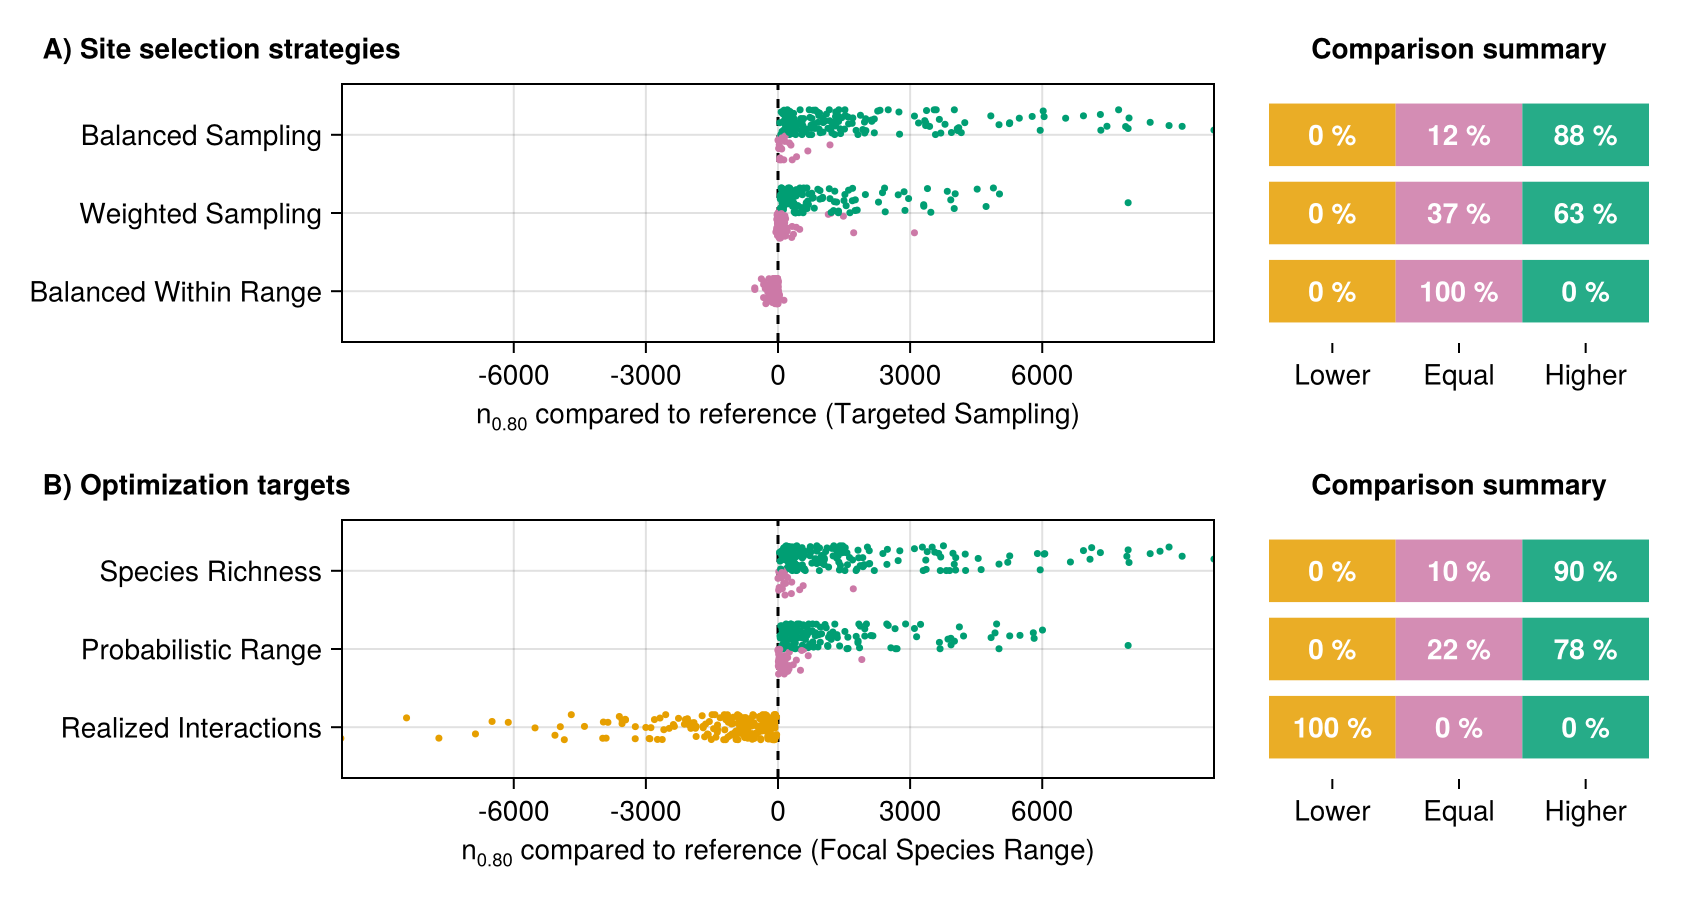
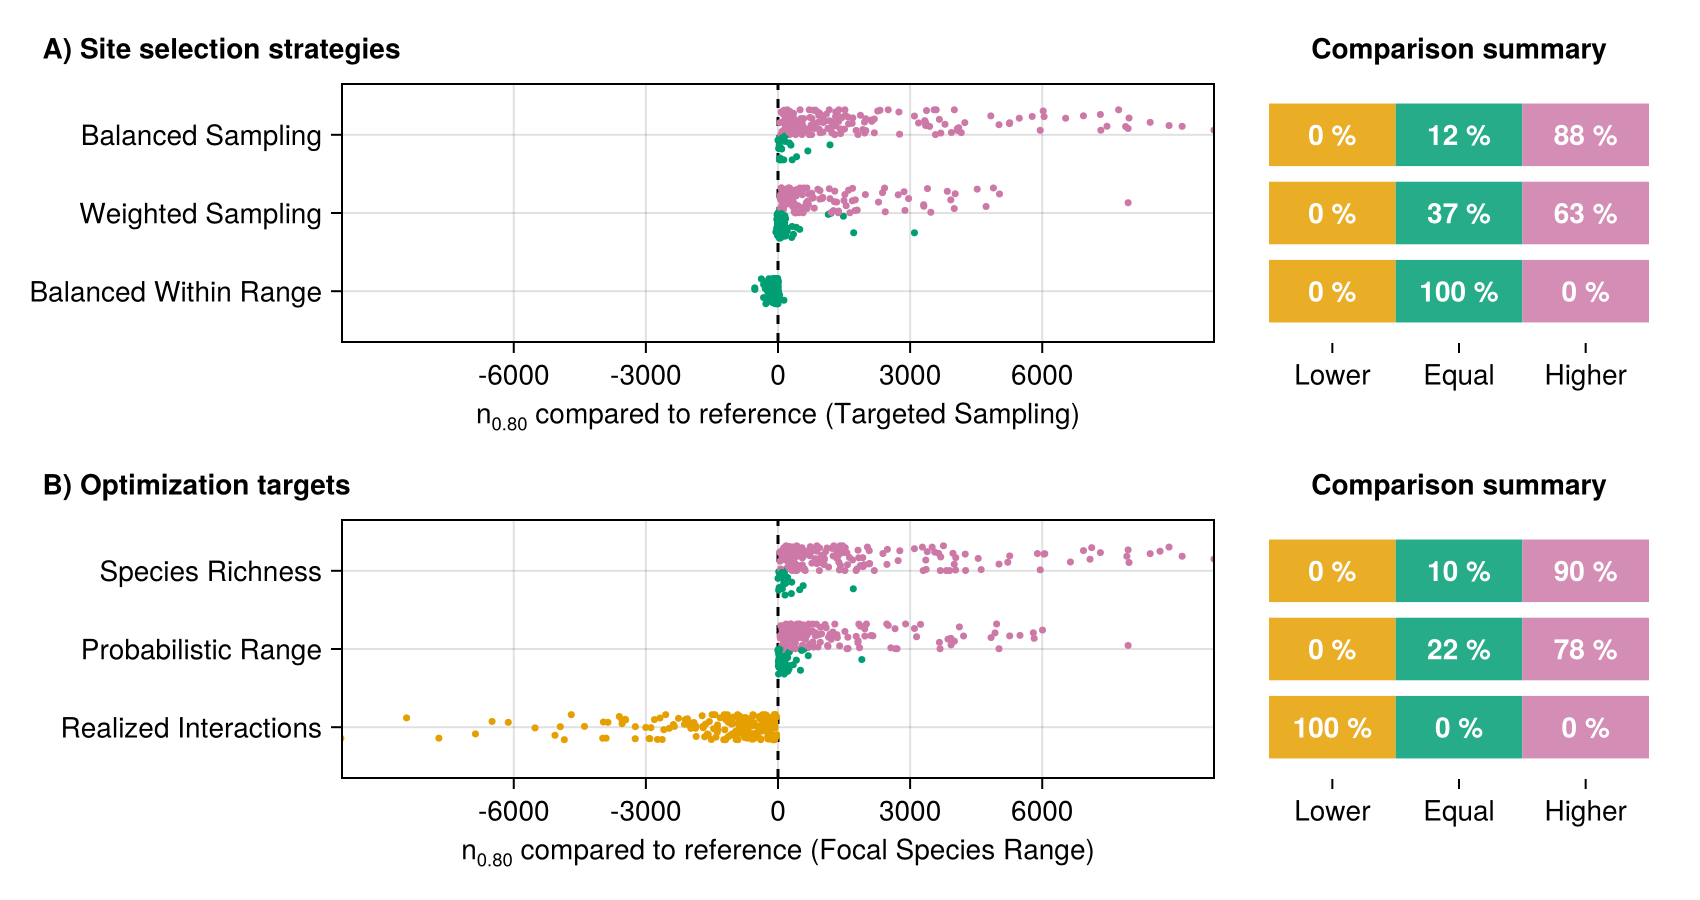
✍ response to reviewer 1

diff --git a/response.md b/response.md
@@ -9,6 +9,8 @@
 
 - Thank the editor
 
+--------------------------------------------------------------------------------
+
 ## Reviewer 1
 
 > This is an interesting manuscript that addresses the challenge of sampling
@@ -28,27 +30,36 @@
 
 - Thank the reviewer
 
-> 
->
-> --------------------------------------------------------------------------------
->
 > lines 420 - 424: Is this paragraph intended to explain Figure 3 BON Examples?
 > I couldn't find the mentioned summary in the text; this section should be
 > modified for clarity. Also the captions of figure 3 and 4 should mention that
 > they are showing examples.
 
-- Yes, explaining Figures 3-4.
-- Summary of results is Figure 5
+Yes, this paragraph refers to the showcased example in Figures 3 and 4,
+representative of the most common results across all independent landscape
+configurations. We clarified this by specifically mentioning Figures 3 and 4 in
+this paragraph. The summary we referred to is Figure 5, which directly presents
+across the 200 independent configurations. We now mention Figure 5 in the
+paragraph as well. We added a mention in the captions to clarify that Figures 3
+and 4 are showing examples, as suggested.
 
 > Figure 5 caption: The caption is difficult to follow, particularly the
 > sentence: "The comparison value is based on the number of sites required to
 > document 80% of the focal species' interactions (n_0.80), described in
 > Equation 2." .It is unclear whether this statement refers to the x-axis or to
 > another component of the figure. The comparison metric should be explained
-> more explicitly.\
+> more explicitly.
 
-- Explain n0.80 first
-- Then mention x-axis is the difference of n0.80 values
+The statement and "comparison value" indeed refer to the x-axis. We agree this
+was unclear, especially given that x-axis value is the *difference* between two
+$n_{0.80}$ values for the options being compared. We changed the sentence to
+explicitly mention the comparison: "*The comparison value (x-axis) is the
+difference between the* $n_{0.80}$ *(number of sites required to document 80% of
+the focal species' interactions, see Equation 2) for a given strategy or target
+and the* $n_{0.80}$ *of its reference.*" We believe that further explaining the
+measure is not necessary, as the $n_{0.80}$ value is already described in the
+Methods and Equation 2, and would make the caption even more difficult to
+follow.
 
 > In addition, the interpretation of the comparison summary is confusing. For
 > example, the category *"Balanced within range"* appears to be lower than the
@@ -65,23 +76,73 @@
 > outcomes relative to the reference. At minimum, the caption should explain
 > more clearly why some scenarios are represented by two bars.
 
-- Reference is centred on 0, indicate exact same n0.80
-- Equal values have overlapping confidence intervals, regardless of the sign
-- Lower values are negative, beyond the confidence intervals, indicate a more
-  efficient sampling
-- Higher are opposite
-- Confidence intervals vary per simulation (variance), hence we cannot delimit
-  with single bars
-- Scenarios represented by two bars/marker sets to highlight only potential
-  results
+We apologize for the confusion, which resulted in part from the lack of clarity
+over the difference measure mentioned in the previous point. To better explain,
+we need to distinguish three elements: the $n_{0.80}$ value, the comparison
+value (position on the x-axis) and the overlap of the confidence intervals (the
+marker colour and associated category). First, the $n_{0.80}$ measures the
+number of sites required to sample 80% of the interactions. It may go beyond the
+number of sites evaluated in our simulations (1-500) because it is derived from
+an accumulation curve fitted to the simulation results (described in details in
+the Methods, section *Step 3: Defining a comparable measure for sampling
+efficiency*). Next, a difference value of 0 (x-axis on Figure 5) indicates that
+the option under comparison (e.g. Balanced Within Range) had the exact same
+$n_{0.80}$ as the reference. Positive values indicate that the $n_{0.80}$ was
+higher while negative values indicate it was lower. However, the order of
+magnitude of the difference is specific to each independent simulation—the
+$n_{0.80}$ values compared may be 500 and 600 in one simulation but 3000 and
+4000 in another—thus, we cannot represent a single bar or "regions" for the
+categories. Therefore, we use the confidence intervals of the
+$n_{0.80}$(described in the Methods) to classify the results in the three
+categories : Equal (overlapping intervals between the compared option and the
+reference), Lower and Higher (non overlapping intervals).
+
+To address this concisely, we updated Figure 5's caption to:
+
+- First describe what the positive and negative values represent
+- Then describe the colours, categories, and classification based on the
+  confidence intervals
+- Finally describe the right side summary panels, which display the percentage
+  of simulations falling into each comparison category (these were not
+  previously described in the caption).
+
+The last addition regarding the summary panels also makes it more intuitive that
+some scenarios are represented by two bars because they have results falling
+into two categories (Equal and Higher), whereas others have results in a single
+category (Lower). As the caption is already quite convoluted, we prefer not to
+add an additional explanation for this.
 
 > Finally, the color scheme could be improved. Green is typically associated
 > with favorable outcomes, whereas in this figure the apparently preferred
 > outcome is shown in orange. I suggest reconsidering or inverting the color
 > palette to make the interpretation more intuitive.
 
-- Colour choice is nice
-- Pink-green is the clearest contrast, used for the most common comparison
+We thank the reviewer for this suggestion. We reconsidered and updated the
+colour palette, although in a different way than suggested.
+
+Our colour choice is intended to optimize the contrast between the most common
+comparison results on Figs 5-6, namely "Equal" and "Higher". Pink and green
+offer the clearest contrast and is our preferred option among many tested for
+Figs 5-6. However, the reviewer's comment helped us realize we were using green
+for "Higher" although it represents the least favourable option, which is
+counter-intuitive. This was especially striking on Fig 6 B for the
+overestimation results (right-side on the x-axis).
+
+Given this, we decided to inverse the colours for "Equal" and "Higher". Our new
+palette has: green for "Equal"—the "default" comparison result and a favourable
+outcome in the context of Fig 6 (as over/underestimation is as efficient as the
+using the exact species range), pink for "Higher"—the least favourable outcome,
+and orange for "Lower"—the "most favourable" but surprising outcome, which
+barely occurs and should stand out as a special case whenever it appears. The
+same reasoning also applies on Fig 5—strategies or targets being equal to the
+reference is "good" (i.e. we can use either interchangeably), while having a
+lower $n_{0.80}$ is even better, but rather unexpected.
+
+Note that marker positions are slightly different on Fig 6A as we updated the
+label order in the legend, which triggered a change in the random jitter (x-axis
+position offset) of all markers. We confirm that the results did not change and
+that the markers have the exact same y-axis position. Panel B confirms this, as
+the proportion of simulations associated to each outcome stayed the same.
 
 > Figure 6 Panel B: appears to present essentially the same information as Panel
 > A. Including both panels is therefore somewhat redundant and may create
@@ -89,16 +150,32 @@
 > is not already conveyed in Panel A, I would suggest removing it or more
 > clearly highlighting its distinct purpose and interpretation.
 
-- Panel B is summarized version of A, focusing on comparison result sign
-- Panel A displays the range in absolute value, along with the linear trend
-- Keep only B and move A to supp mat? Looking back, proportion of simulations is
-  most important result, not absolute values and linear trend
+We respectfully disagree with the suggestion to remove Panel B, as we believe
+the two panels play a distinct, complementary role. The reviewer's
+interpretation is correct regarding some the information being shared: Panel B
+essentially summarizes the proportions presented on Panel A in a more accessible
+way, focusing on only on the variation of the proportions between the comparison
+outcomes. Yet, this information is more precise than on Panel A, as the
+proportions are shown at all 2% interval increments. The tolerance to up to 10%
+overestimation, abrupt change beyond this threshold, and contrast with the much
+slower, progressive shift in the underestimation case all serve as key results
+in our manuscript, which Panel B clearly supports. Nonetheless, we reworded some
+sentences in this paragraph to mention the abrupt and progressive changes, and
+we hope it better highlights Panel B's purpose.
+
+Meanwhile, we also want to reinforce the relevance of Panel A, whose role is to
+display the magnitude of the change in efficiency with over/underestimation
+compared to the reference $n_{0.80}$. The key result is the clear linear trend
+with overestimation, following the addition of non-informative sites, which
+contrasts with the high variance observed with underestimation. We realized that
+the implications of these findings were barely discussed; therefore, we briefly
+expanded on them in the second-to-last section of the Discussion.
 
 > Lines 504 - 513: Here you repeat the concept that species interactions require
 > more sampling effort. Likewise, the connection to the BON framework is
 > reiterated multiple times.
 
-- Rephrase to minimize redundancy while keeping result
+We streamlined this section to remove redundancy.
 
 > Lines 518: I would suggest removing the phrase "Through our representative
 > example in Figure 3". In the Discussion, the focus should be on interpreting
@@ -106,7 +183,11 @@
 > figures. The statement would read more smoothly if it referred directly to the
 > result or pattern observed, without explicitly citing the figure.
 
-- Makes sense. Remove references to Figures in Discussion
+We removed the figure citation in this paragraph and updated the text to refer
+to the result observed. We followed this recommendation throughout the
+discussion, keeping figure citations for cases where results are taken as
+specific examples or where we want to clearly highlight the result supporting a
+statement.
 
 > Lines 521–524: This section introduces a question that is immediately answered
 > in the following paragraph, creating unnecessary repetition. This rhetorical
@@ -114,9 +195,9 @@
 > effective in a scientific discussion. I suggest stating the main point
 > directly and integrating the explanation into a single, concise argument.
 
-- Replace rhetorical questions by: ... leaving open questions of determining the
-  information most efficient to target sites in sampling designs and the
-  precision required.
+We agree that this point could be stated in a more effective way. We removed the
+rhetorical questions and directed stated the need for further investigation to
+ensure an actual implementation of the monitoring strategies.
 
 ## Reviewer 2
 
